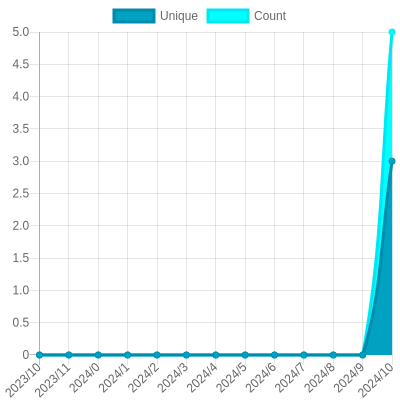
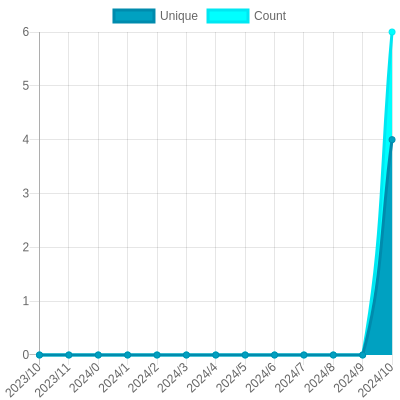
Update views

diff --git a/readme/487779296/year.md b/readme/487779296/year.md
@@ -23,10 +23,10 @@
 			<code>2023/11/1</code>
 		</td>
 		<td>
-			<code>3</code>
+			<code>4</code>
 		</td>
 		<td>
-			<code>5</code>
+			<code>6</code>
 		</td>
 	</tr>
 	<tr>
@@ -164,7 +164,7 @@
 </table>
 
 </details>
-<small><i>Last updated on 2023/11/14 12:25 PM UTC</i></small>
+<small><i>Last updated on 2023/11/14 6:15 PM UTC</i></small>
 
 ## ✂Copy and 📋 Paste
 ### SVG Badge

diff --git a/README.md b/README.md
@@ -149,7 +149,7 @@ The project created and maintained by [gayanvoice](https://github.com/gayanvoice
 	</tr>
 </table>
 
-<small><i>Last updated on 2023/11/14 12:25 PM UTC</i></small>
+<small><i>Last updated on 2023/11/14 6:15 PM UTC</i></small>
 
 ## ✂Copy and 📋 Paste
 ### Total Views Badge

diff --git a/readme/477768783/year.md b/readme/477768783/year.md
@@ -164,7 +164,7 @@
 </table>
 
 </details>
-<small><i>Last updated on 2023/11/14 12:25 PM UTC</i></small>
+<small><i>Last updated on 2023/11/14 6:15 PM UTC</i></small>
 
 ## ✂Copy and 📋 Paste
 ### SVG Badge

diff --git a/readme/477770883/year.md b/readme/477770883/year.md
@@ -164,7 +164,7 @@
 </table>
 
 </details>
-<small><i>Last updated on 2023/11/14 12:24 PM UTC</i></small>
+<small><i>Last updated on 2023/11/14 6:14 PM UTC</i></small>
 
 ## ✂Copy and 📋 Paste
 ### SVG Badge

diff --git a/readme/482801964/year.md b/readme/482801964/year.md
@@ -164,7 +164,7 @@
 </table>
 
 </details>
-<small><i>Last updated on 2023/11/14 12:25 PM UTC</i></small>
+<small><i>Last updated on 2023/11/14 6:15 PM UTC</i></small>
 
 ## ✂Copy and 📋 Paste
 ### SVG Badge

diff --git a/readme/487820746/year.md b/readme/487820746/year.md
@@ -164,7 +164,7 @@
 </table>
 
 </details>
-<small><i>Last updated on 2023/11/14 12:24 PM UTC</i></small>
+<small><i>Last updated on 2023/11/14 6:14 PM UTC</i></small>
 
 ## ✂Copy and 📋 Paste
 ### SVG Badge

diff --git a/readme/494387309/year.md b/readme/494387309/year.md
@@ -164,7 +164,7 @@
 </table>
 
 </details>
-<small><i>Last updated on 2023/11/14 12:25 PM UTC</i></small>
+<small><i>Last updated on 2023/11/14 6:14 PM UTC</i></small>
 
 ## ✂Copy and 📋 Paste
 ### SVG Badge

diff --git a/readme/536989059/year.md b/readme/536989059/year.md
@@ -164,7 +164,7 @@
 </table>
 
 </details>
-<small><i>Last updated on 2023/11/14 12:24 PM UTC</i></small>
+<small><i>Last updated on 2023/11/14 6:14 PM UTC</i></small>
 
 ## ✂Copy and 📋 Paste
 ### SVG Badge

diff --git a/readme/560374483/year.md b/readme/560374483/year.md
@@ -164,7 +164,7 @@
 </table>
 
 </details>
-<small><i>Last updated on 2023/11/14 12:24 PM UTC</i></small>
+<small><i>Last updated on 2023/11/14 6:14 PM UTC</i></small>
 
 ## ✂Copy and 📋 Paste
 ### SVG Badge
